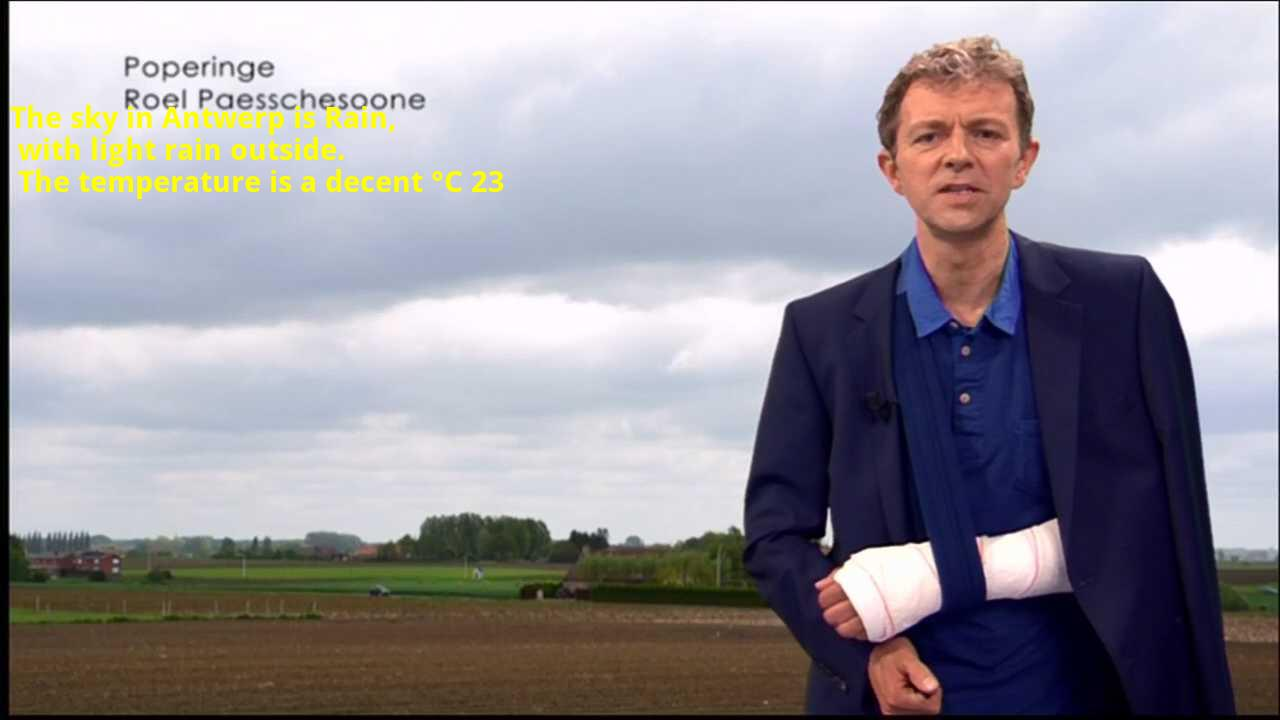
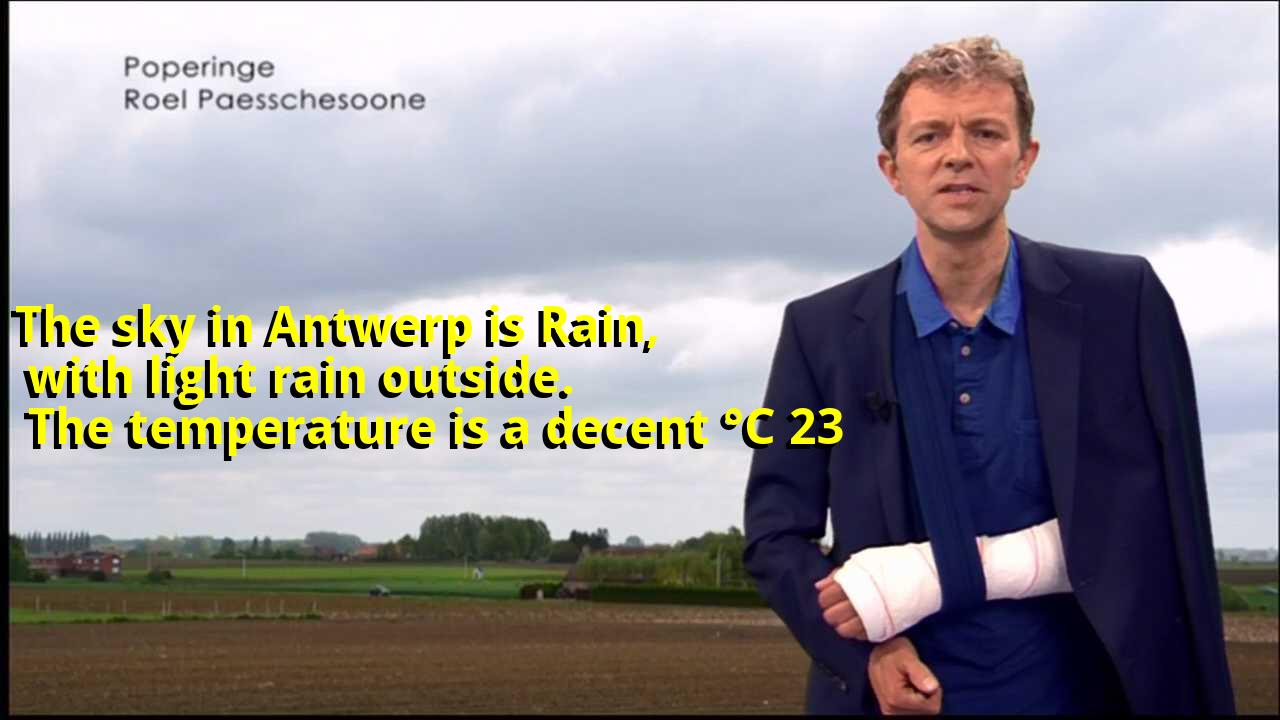
weerbot concept

Changed region(s): [[0.0, 0.4278, 0.6562, 0.6417], [0.0, 0.1222, 0.4062, 0.275]]

diff --git a/classes/weertje.py b/classes/weertje.py
@@ -20,9 +20,10 @@ def huidig_weer():
 
 	img = Image.open("classes/weer.jpg")
  
-	fnt = ImageFont.truetype('/snap/pycharm-community/132/jre64/lib/fonts/DroidSans-Bold.ttf', 80)
+	fnt = ImageFont.truetype('/snap/pycharm-community/132/jre64/lib/fonts/DroidSans-Bold.ttf', 50)
 	d = ImageDraw.Draw(img)
-	d.text((10,100), full_string, font=fnt, fill=(0, 0, 0))
+	d.text((10,300), full_string, font=fnt, fill=(0,0,0))
+	d.text((15,295), full_string, font=fnt, fill=(255,255,0))
 	img.save('classes/weerbericht.jpg')
 
 
@@ -30,7 +31,6 @@ def huidig_weer():
 	# return f"The sky in {name} is {mainWeer}, \n with {descWeer} outside. \n The temperature is a decent °C {temp}" 
 
 	
-
 
 
 
